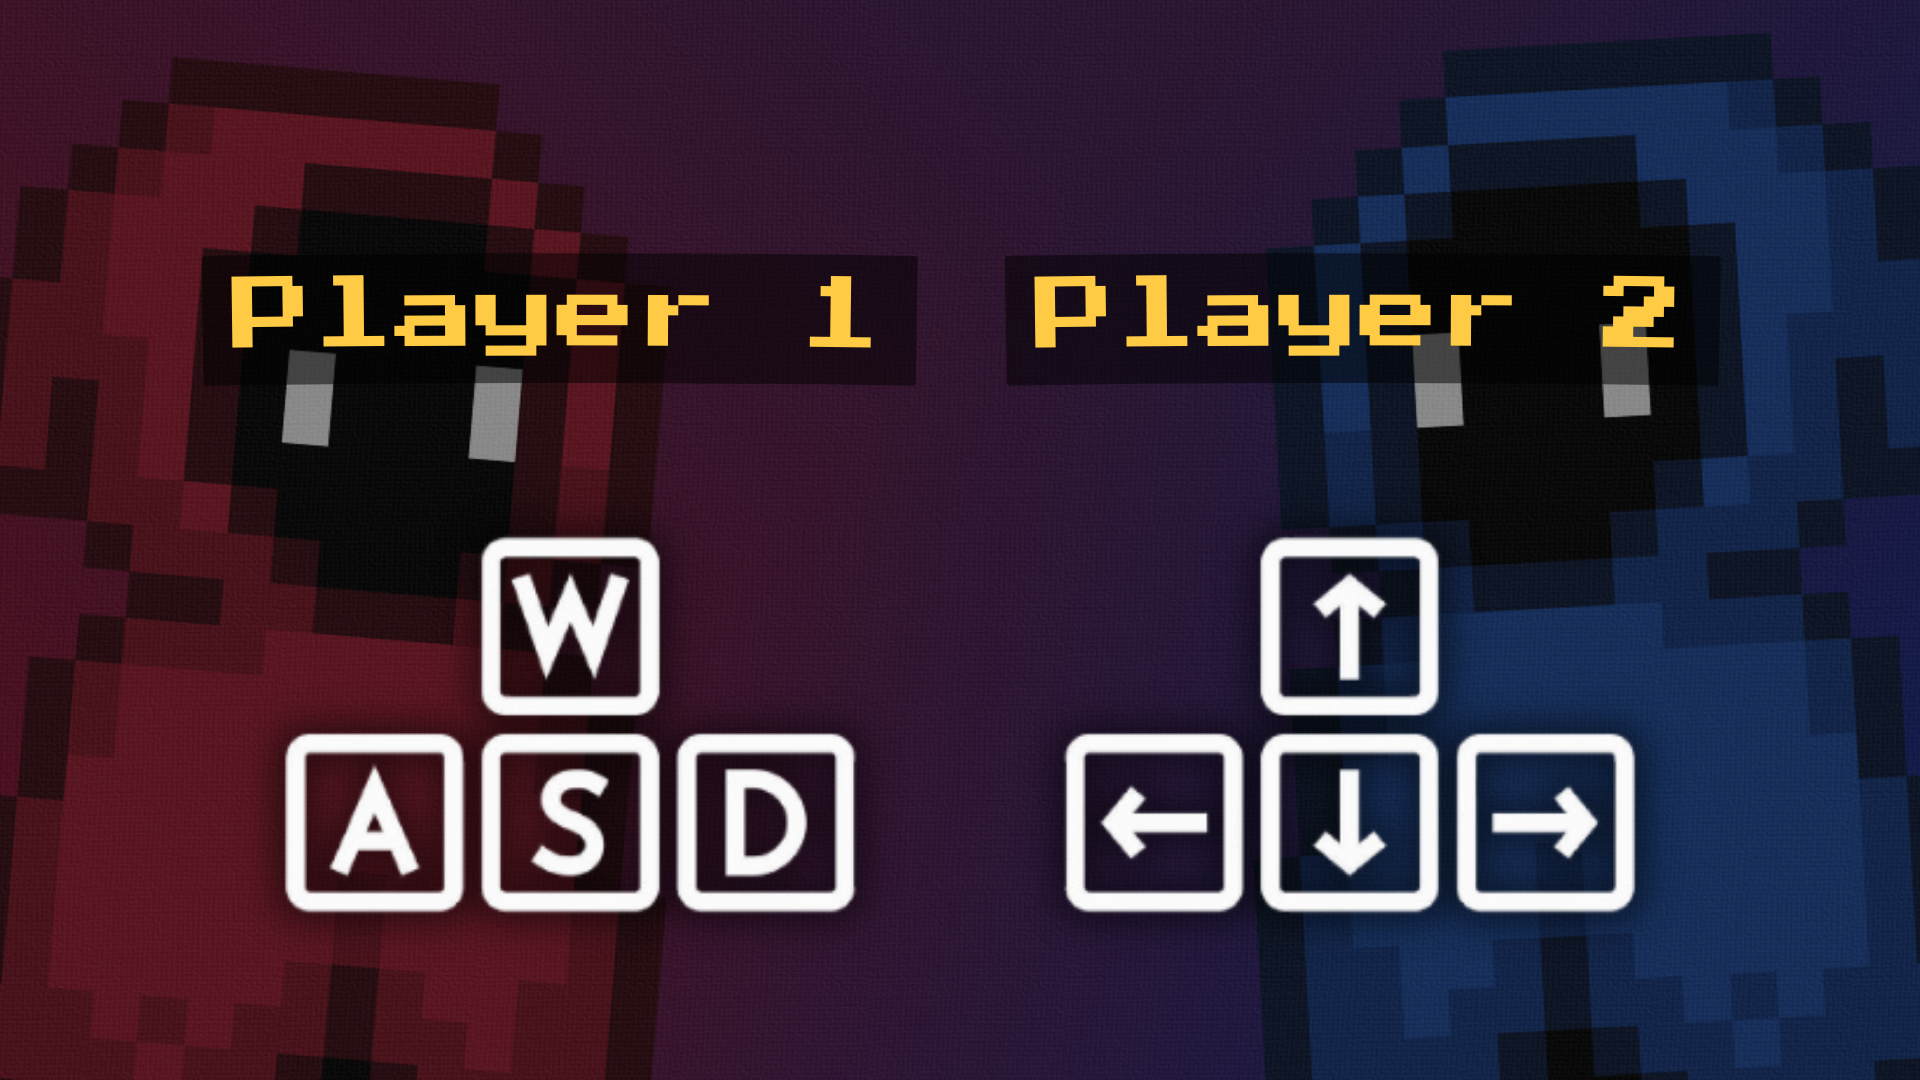
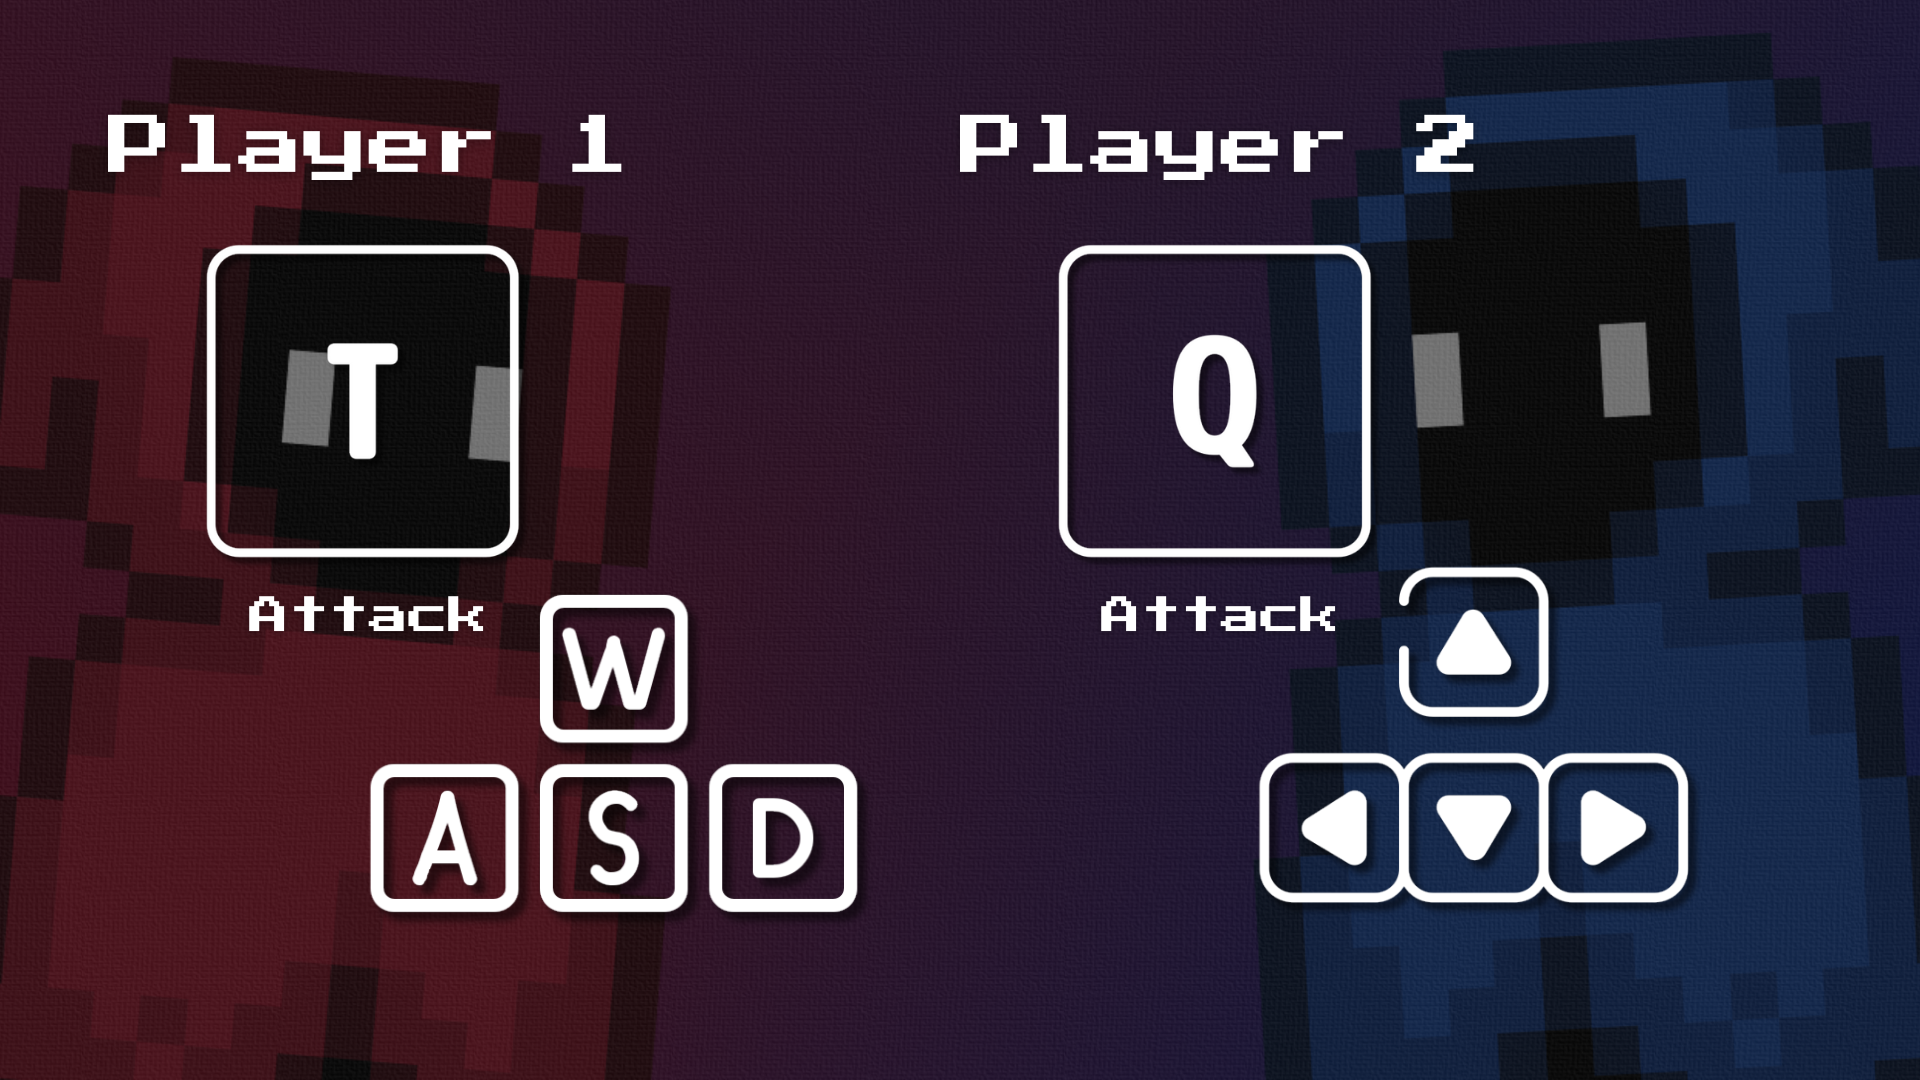
Update menu images and layout

diff --git a/Scripts/menu_screen.py b/Scripts/menu_screen.py
@@ -1,3 +1,4 @@
+
 import pygame
 import sys
 import main
@@ -11,8 +12,8 @@ pygame.mixer.init()
 # Screen Settings
 SCREEN_WIDTH = 1280
 SCREEN_HEIGHT = 720
-screen = pygame.display.set_mode((SCREEN_WIDTH, SCREEN_HEIGHT), pygame.SCALED)
-pygame.display.set_caption("Sabotage Runners")
+screen = pygame.display.set_mode((SCREEN_WIDTH, SCREEN_HEIGHT), pygame.NOFRAME)
+pygame.display.set_caption("Game Menu")
 
 # Colors
 WHITE = (255, 255, 255)
@@ -21,8 +22,9 @@ DARK_PURPLE = (35, 9, 35)  # RGB for #230922
 BRIGHT_PURPLE = (45, 19, 45)  # Lighter version of #230922 for hover effect
 
 # Fonts
-font = pygame.font.Font(None, 50)
+font = pygame.font.Font("../fonts/font.ttf", 50)
 header_font = pygame.font.SysFont("Arial", 30, bold=True)
+
 
 # Load Background Image
 BACKGROUND_IMAGE = pygame.image.load("../menu_images/menu_background.png")
@@ -35,7 +37,7 @@ OPTIONS_BACKGROUND = pygame.transform.scale(OPTIONS_BACKGROUND, (SCREEN_WIDTH, S
 pygame.mixer.music.load("../audios/menu_music.mp3")
 pygame.mixer.music.set_volume(0.5)  # Optional: Set volume between 0.0 and 1.0
 pygame.mixer.music.play(-1)  # Start the music
-pygame.mixer.music.set_volume(0.05)
+pygame.mixer.music.set_volume(0.15)
 
 
 class Button:
@@ -47,7 +49,7 @@ class Button:
         self.callback = callback
         self.original_width = width
         self.original_height = height
-        self.scale_factor = 1.1
+        self.scale_factor = 2.1
 
     def draw(self, surface):
         """Draw button with hover effect and gradient text."""
@@ -69,20 +71,31 @@ class Button:
             pygame.draw.rect(surface, rect_color, self.rect)
 
         # Draw text
-        text_surface = font.render(self.text, True, WHITE)
-        text_rect = text_surface.get_rect(center=self.rect.center)
+        text_surface = font.render(self.text, False, WHITE)
+        rect_with_padding = self.rect.inflate(220, 25)
+        text_rect = text_surface.get_rect(center=rect_with_padding.center)
+        pygame.draw.rect(surface, rect_color, rect_with_padding)
         surface.blit(text_surface, text_rect)
 
 # Button Click Detection
 def detect_button_click(buttons):
-    """Check if any button is clicked."""
+    """Check if any button is clicked on a single mouse press and release."""
     mouse_pos = pygame.mouse.get_pos()
     mouse_pressed = pygame.mouse.get_pressed()
 
+    # Static variable to track mouse state
+    if not hasattr(detect_button_click, "mouse_held"):
+        detect_button_click.mouse_held = False
+
     if mouse_pressed[0]:  # Left-click
-        for button in buttons:
-            if button.rect.collidepoint(mouse_pos):
-                button.callback()
+        if not detect_button_click.mouse_held:  # Register click only once
+            detect_button_click.mouse_held = True
+            for button in buttons:
+                if button.rect.collidepoint(mouse_pos):
+                    button.callback()
+    else:
+        detect_button_click.mouse_held = False
+
 
 # Callbacks for Buttons
 def play_game():
@@ -132,41 +145,47 @@ def show_objective():
 
         pygame.display.update()
 
-def back_to_menu():
-    pygame.time.delay(200)
-    main_menu()  # Call main menu again to reset the state
-
-
 def show_options():
     """Display the options menu."""
     # Options settings
     options = {
-        "Music": True,  # Example toggle for music
-        "Fullscreen": False,  # Example toggle for fullscreen
+        "Music": True,
+        "Fullscreen": False,
     }
-    
+
     # Create buttons for each option
     option_buttons = []
-    y_offset = 150
-    for option, value in options.items():
-        button = Button(
-            f"{option}: {'ON' if value else 'OFF'}",
-            SCREEN_WIDTH // 2 - 200,
-            y_offset,
-            400,
-            50,
-            lambda opt=option: toggle_option(opt, options, option_buttons)
-        )
-        option_buttons.append(button)
-        y_offset += 70
+    
+    # Music button
+    Music_button = Button(
+        f"Music: {'ON' if options['Music'] else 'OFF'}",
+        SCREEN_WIDTH // 2 - 200,
+        160,
+        400,
+        50,
+        lambda opt="Music": toggle_option(opt, options, option_buttons)
+    )
+    option_buttons.append(Music_button)
+    
+    # Fullscreen button
+    Fullscreen_button = Button(
+        f"Fullscreen: {'ON' if options['Fullscreen'] else 'OFF'}",
+        SCREEN_WIDTH // 2 - 300,
+        300,
+        600,
+        50,
+        lambda opt="Fullscreen": toggle_option(opt, options, option_buttons)
+    )
+    option_buttons.append(Fullscreen_button)
 
+    # Back button
     back_button = Button(
         "Back to Menu",
-        SCREEN_WIDTH // 2 - 100,
-        y_offset,
-        200,
+        SCREEN_WIDTH // 2 - 200,
+        600,
+        400,
         50,
-        back_to_menu
+        main_menu  # This references the back_to_menu function
     )
     option_buttons.append(back_button)
 
@@ -205,9 +224,11 @@ def toggle_option(option, options, buttons):
         else:
             pygame.display.set_mode((SCREEN_WIDTH, SCREEN_HEIGHT))
 
+    # Update the text of the buttons
     for button in buttons:
         if option in button.text:
             button.text = f"{option}: {'ON' if options[option] else 'OFF'}" 
+
 
 def draw_credits():
     # Load and display the credits image
@@ -223,7 +244,7 @@ def draw_credits():
                 sys.exit()
             elif event.type == pygame.KEYDOWN and event.key == pygame.K_ESCAPE:
                 return  # Go back to the main menu
-
+        
         pygame.display.update()
 
 def quit_game():
@@ -232,14 +253,14 @@ def quit_game():
 
 # Main Menu Function
 def main_menu():
-    # Button Instances
+    # Button Instances68
     buttons = [
-        Button("Play", SCREEN_WIDTH // 2 - 100, 150, 200, 50, play_game),
-        Button("Controls", SCREEN_WIDTH // 2 - 100, 220, 200, 50, show_controls),
-        Button("Objective", SCREEN_WIDTH // 2 - 100, 290, 200, 50, show_objective),
-        Button("Options", SCREEN_WIDTH // 2 - 100, 360, 200, 50, show_options),
-        Button("Credits", SCREEN_WIDTH // 2 - 100, 430, 200, 50, draw_credits),
-        Button("Quit", SCREEN_WIDTH // 2 - 100, 500, 200, 50, quit_game),
+        Button("Play", SCREEN_WIDTH // 2 - 150, 160, 300, 50, play_game),
+        Button("Controls", SCREEN_WIDTH // 2 - 150, 280, 300, 50, show_controls),
+        Button("Objective", SCREEN_WIDTH // 2 - 150, 400, 300, 50, show_objective),
+        Button("Credits", SCREEN_WIDTH // 2 - 150, 520, 300, 50, draw_credits),
+        Button("Quit", 1030 - 100, 650, 200, 50, quit_game),
+        Button("Options", 150, 650, 200, 50, show_options)
     ]
 
     # Main Menu Loop
@@ -253,9 +274,7 @@ def main_menu():
             if event.type == pygame.QUIT:
                 pygame.quit()
                 sys.exit()
-
         detect_button_click(buttons)
         pygame.display.update()
-
 if __name__ == "__main__":
     main_menu()
